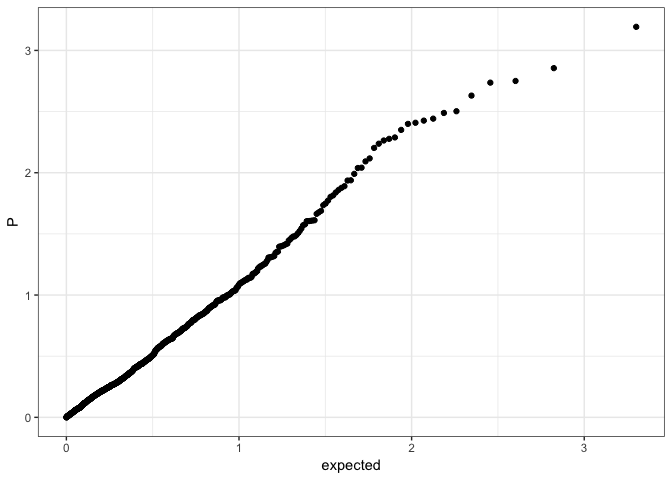
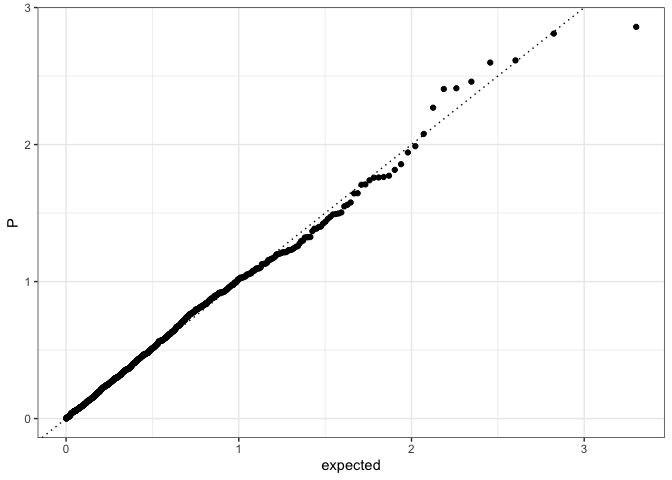
removing the {r} part from the geom_gwas_manhattan example and adding a ggman::ggmanhattan example.

diff --git a/README.md b/README.md
@@ -54,28 +54,46 @@ library(ggplot2)
 
 theme_set(theme_bw())
 ## Generate some random data
+n <- 1000
+n_chr <- 4
 
 df <-
   data.frame(
-    POS = rep(1:250, 4),
-    CHR = 1:4,
-    P = runif(1000),
-    GWAS = sample(c("a", "b"), 1000, replace = TRUE)
+    POS = rep(1:(n/n_chr), n_chr),
+    CHR = rep(1:n_chr, rep(n/n_chr, n_chr)),
+    SNP = paste0("rs", 1:n),
+    P = runif(n),
+    GWAS = sample(c("a", "b"), n, replace = TRUE)
   )
 ```
 
 ### Manhattan plot
 
+Currently working on `stat_gwas_manhattan()` that should at one point
+look like
+    this:
+
+    ggplot(data = df) + stat_gwas_manhattan(aes(pos = POS, y = -log10(P), chr = CHR))
+
+Till then, use the `ggman::ggmanhattan` function:
+
 ``` r
-ggplot(data = df) + stat_gwas_manhattan(aes(pos = POS, y = -log10(P), chr = CHR))
+library(ggGWAS)
+library(dplyr)
+#> 
+#> Attaching package: 'dplyr'
+#> The following objects are masked from 'package:stats':
+#> 
+#>     filter, lag
+#> The following objects are masked from 'package:base':
+#> 
+#>     intersect, setdiff, setequal, union
+ggman::ggmanhattan(data = df, SNP = "SNP", chr = "CHR", bp = "POS", P = "P", sparsify = FALSE, theme_base = theme_bw(), build = 'hg18', highlight = df %>% slice(which.min(P)) %>% pull(SNP)) +
+  labs(title = "MHTPLOT" )
+#> Plotting 1000 points...
 ```
 
-<img src="man/figures/README-mhtplot-1.png" width="100%" />
-
-``` r
-
-?stat_gwas_manhattan ## for more examples
-```
+<img src="man/figures/README-manhattanplot-1.png" width="100%" />
 
 ### Q-Q plot
 
@@ -83,7 +101,9 @@ Lightweight Q-Q plot (with hex tiles)
 
 ``` r
 
-ggplot(data = df) + stat_gwas_qq_hex(aes(y = P))
+ggplot(data = df) + 
+  stat_gwas_qq_hex(aes(y = P)) + 
+  geom_abline(intercept = 0, slope = 1, linetype = 3)
 ```
 
 <img src="man/figures/README-qqplot-hex-1.png" width="100%" />
@@ -96,7 +116,9 @@ ggplot(data = df) + stat_gwas_qq_hex(aes(y = P))
 Conventional Q-Q plot
 
 ``` r
-ggplot(data = df) + stat_gwas_qq(aes(y = P))
+ggplot(data = df) +
+  stat_gwas_qq(aes(y = P)) + 
+  geom_abline(intercept = 0, slope = 1, linetype = 3)
 ```
 
 <img src="man/figures/README-qqplot-1.png" width="100%" />
